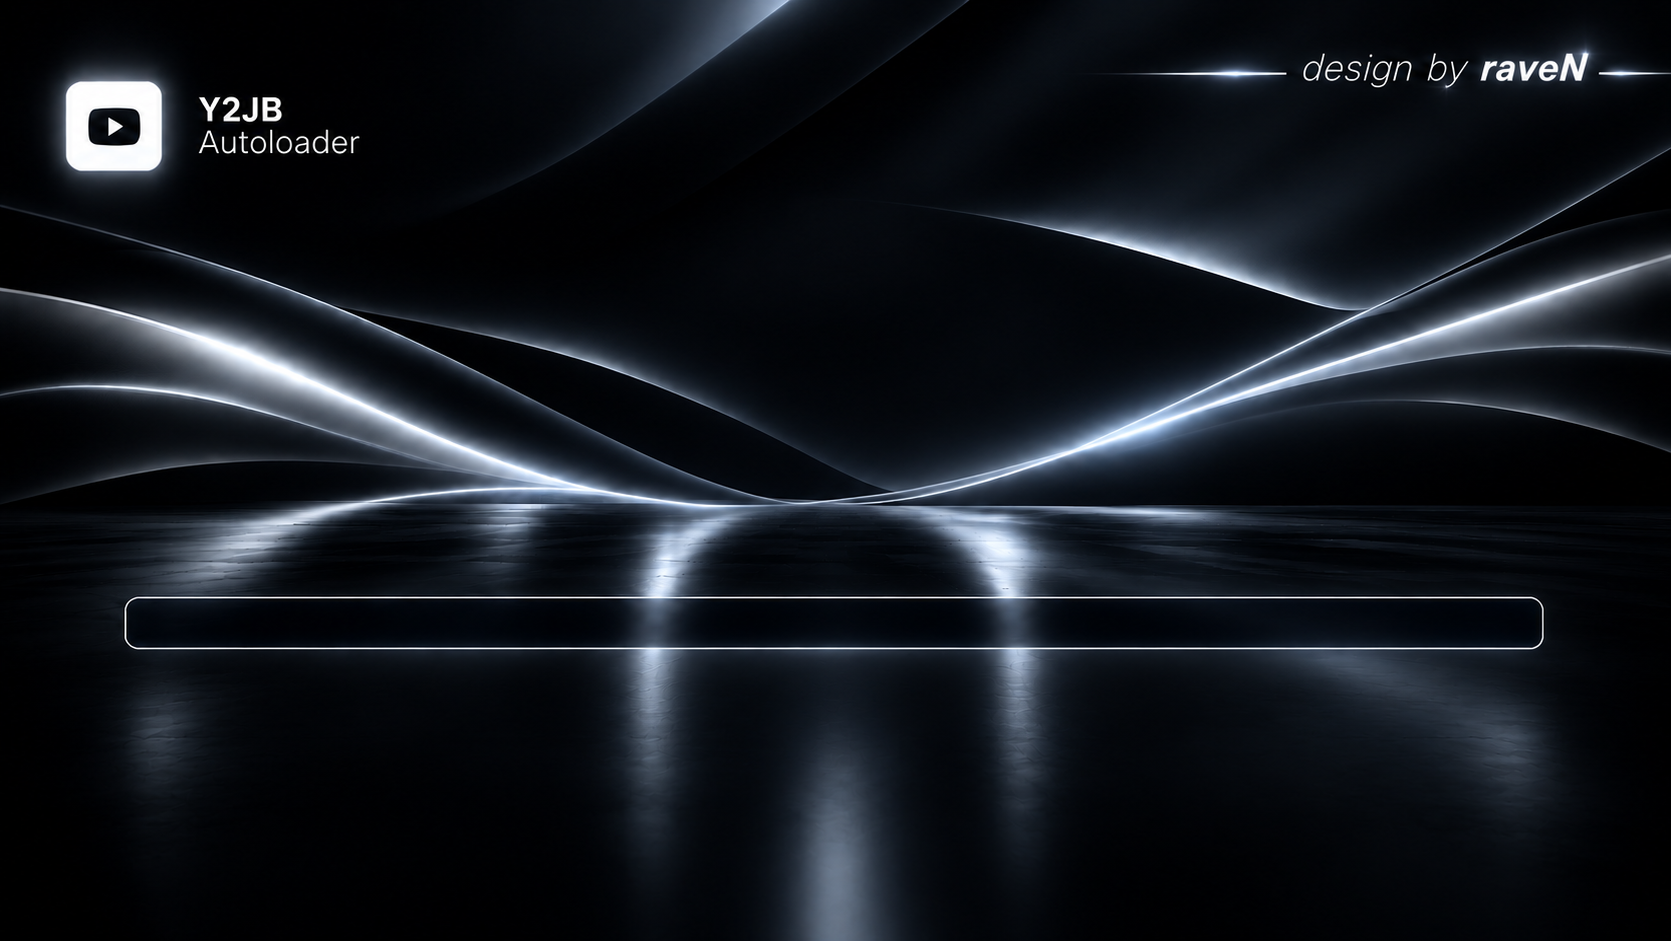
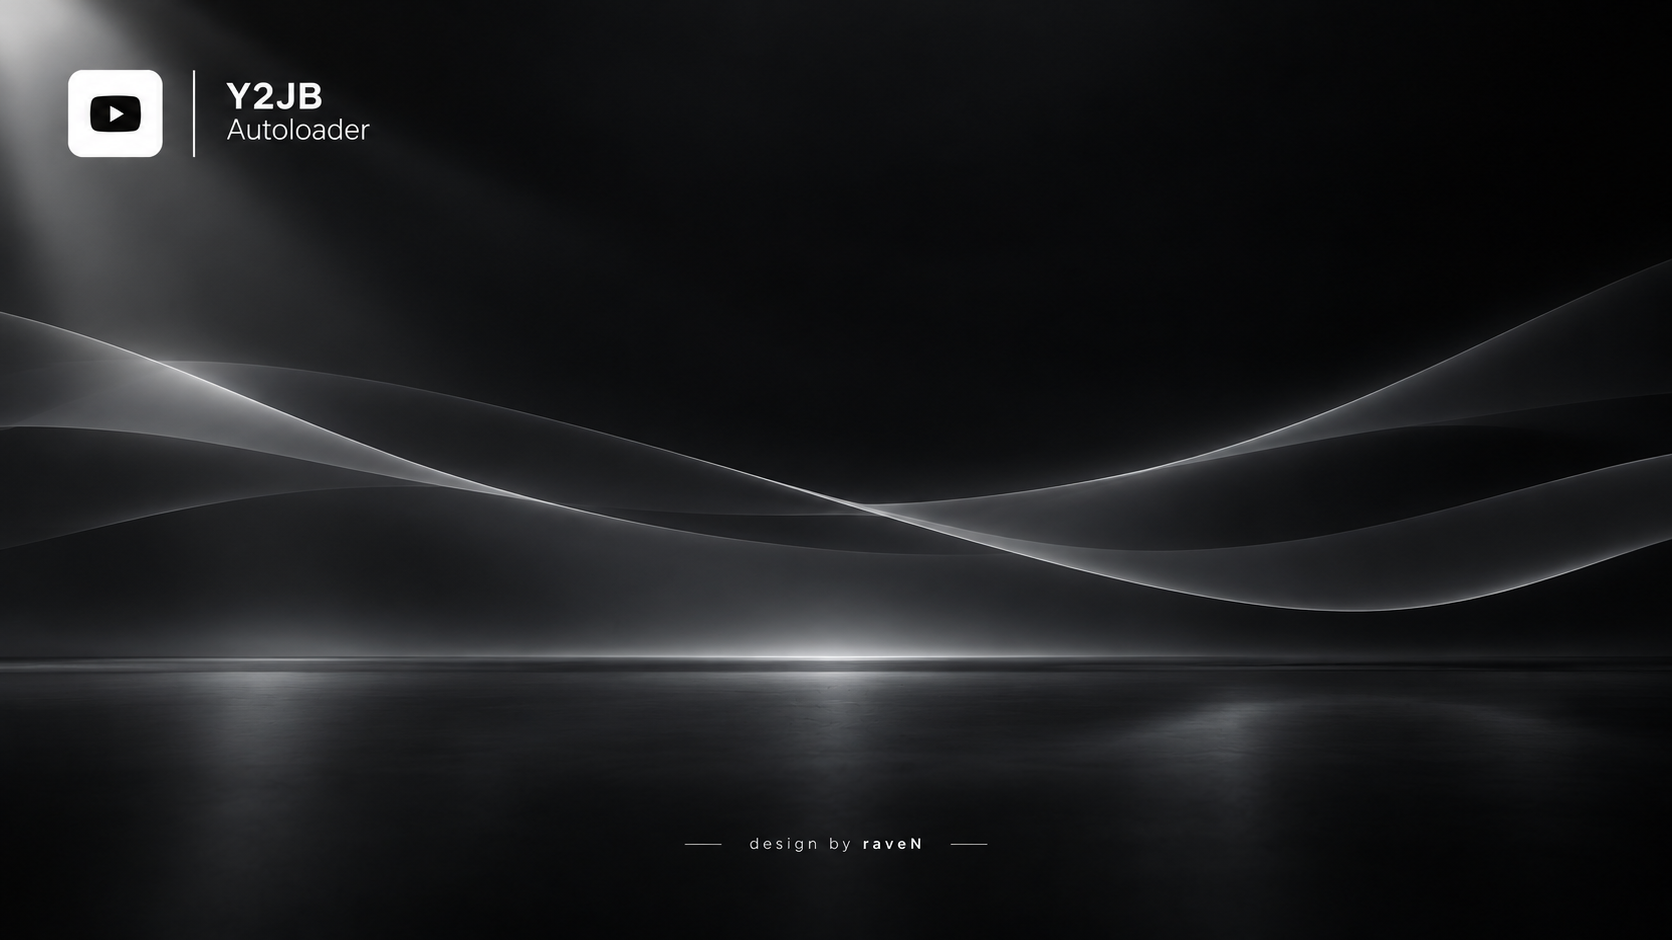
Redesign Y2JB circular progress UI

diff --git a/src/main.js b/src/main.js
@@ -172,10 +172,10 @@ function trigger() {
             width: "320px", height: "320px",
             boxSizing: "border-box", borderRadius: "50%",
             border: "12px solid transparent",
-            background: "conic-gradient(from 0deg, rgba(255,255,255,.06) 0deg, rgba(255,255,255,.12) 18deg, #fff 32deg, rgba(255,255,255,.95) 42deg, rgba(255,255,255,.12) 58deg, transparent 		72deg, transparent 88deg, rgba(255,255,255,.08) 100deg, rgba(255,255,255,.65) 116deg, #fff 128deg, rgba(255,255,255,.08) 143deg, transparent 158deg, transparent 178deg, 	rgba(255,255,255,.08) 190deg, rgba(255,255,255,.75) 207deg, #fff 218deg, rgba(255,255,255,.08) 234deg, transparent 250deg, transparent 268deg, rgba(255,255,255,.08) 280deg, 	rgba(255,255,255,.55) 296deg, #fff 307deg, rgba(255,255,255,.08) 324deg, transparent 340deg, transparent 360deg)",
+            background: "conic-gradient(from -90deg, #fff 0deg, #fff 0deg, rgba(255,255,255,.12) 0deg, rgba(255,255,255,.12) 360deg)",
             boxShadow: "0 0 22px rgba(255,255,255,.65), 0 0 55px rgba(255,255,255,.38), 0 0 100px rgba(255,255,255,.16)",
             filter: "drop-shadow(0 0 10px rgba(255,255,255,.75))",
-            animation: "jailbreakSpin 1.8s linear infinite",
+            animation: "jailbreakGlow 1.4s ease-in-out infinite",
             WebkitMask: "radial-gradient(closest-side, transparent calc(100% - 16px), #000 calc(100% - 15px))",
             mask: "radial-gradient(closest-side, transparent calc(100% - 16px), #000 calc(100% - 15px))",
         });
@@ -183,18 +183,9 @@ function trigger() {
 
         const animationStyle = document.createElement("style");
         animationStyle.textContent = `
-            @keyframes jailbreakSpin {
-                0% {
-                    transform: rotate(0deg);
-                    filter: drop-shadow(0 0 8px rgba(255,255,255,.65));
-                }
-                50% {
-                    filter: drop-shadow(0 0 20px rgba(255,255,255,1));
-                }
-                100% {
-                    transform: rotate(360deg);
-                    filter: drop-shadow(0 0 8px rgba(255,255,255,.65));
-                }
+            @keyframes jailbreakGlow {
+                0%, 100% { filter: drop-shadow(0 0 9px rgba(255,255,255,.55)); }
+                50% { filter: drop-shadow(0 0 22px rgba(255,255,255,.95)); }
             }
             @keyframes jailbreakInnerPulse {
                 0%, 100% {
@@ -231,84 +222,33 @@ function trigger() {
         });
         root.appendChild(centralStatus);
 
-        // A single live status line replaces the old scrolling log in the visible overlay.
-        const statusPanel = document.createElement("div");
-        statusPanel.id = "logWrapper";
-        Object.assign(statusPanel.style, {
-            position: "absolute", left: "7.6%", top: "66.3%", transform: "none",
-            width: "84.8%", height: "5.6%", boxSizing: "border-box", padding: "0 28px",
-            display: "flex", alignItems: "center",
-            background: "transparent",
-            border: "none", borderRadius: "0",
-            boxShadow: "none",
-            overflow: "hidden", zIndex: "3"
-        });
-        root.appendChild(statusPanel);
-        const dot = document.createElement("div");
-        Object.assign(dot.style, {
-            width: "9px", height: "9px", flex: "0 0 9px", marginRight: "18px",
-            borderRadius: "50%", background: "#dceaff", boxShadow: "0 0 14px rgba(180,210,255,.95)"
-        });
-        statusPanel.appendChild(dot);
-        const logContainer = document.createElement("div");
-        logContainer.id = "logContainer";
-        Object.assign(logContainer.style, {
-            flex: "1", minWidth: "0", whiteSpace: "nowrap", overflow: "hidden",
-            textOverflow: "ellipsis", color: "rgba(242,246,255,.92)", fontSize: "22px",
-            letterSpacing: ".2px"
-        });
-        statusPanel.appendChild(logContainer);
-
-        const progressBarContainer = document.createElement("div");
-        Object.assign(progressBarContainer.style, {
-            position: "absolute", left: "50%", top: "85%", transform: "translateX(-50%)",
-            width: "900px", height: "13px", background: "rgba(255,255,255,.12)",
-            border: "1px solid rgba(255,255,255,.28)", borderRadius: "99px", overflow: "hidden",
-            zIndex: "3", boxShadow: "0 0 18px rgba(110,160,255,.10)"
-        });
-        root.appendChild(progressBarContainer);
-        const progressBar = document.createElement("div");
-        progressBar.id = "progressBar";
-        Object.assign(progressBar.style, {
-            width: "100%", height: "100%",
-            background: "linear-gradient(90deg,#b8d5ff,#ffffff 65%,#dbe8ff)",
-            transformOrigin: "left", transform: "scaleX(0)", transition: "transform .45s ease",
-            borderRadius: "99px", boxShadow: "0 0 16px rgba(225,239,255,.9)"
-        });
-        progressBarContainer.appendChild(progressBar);
-        const progressLabel = document.createElement("div");
-        progressLabel.id = "progressLabel";
-        progressLabel.textContent = "Loading...";
-        Object.assign(progressLabel.style, {
-            position: "absolute", left: "50%", top: "88%", transform: "translateX(-50%)",
-            marginTop: "18px", fontSize: "15px", letterSpacing: "2px",
-            color: "rgba(220,231,250,.58)", zIndex: "3"
-        });
-        root.appendChild(progressLabel);
+        // Status and progress are displayed inside the central circular ring.
         document.body.appendChild(root);
     };
 
     window.updateProgress = function(percent, message="Loading...") {
-        const bar = document.getElementById("progressBar");
-        if (bar) {
-            const safePercent = Math.max(0, Math.min(100, Number(percent) || 0));
-            bar.style.transform = "scaleX(" + safePercent / 100 + ")";
+        const safePercent = Math.max(0, Math.min(100, Number(percent) || 0));
+        const ring = document.getElementById("jailbreakRing");
+        const status = document.getElementById("jailbreakStatus");
+
+        if (ring) {
+            const degrees = safePercent * 3.6;
+            ring.style.background =
+                "conic-gradient(from -90deg, #fff 0deg, #fff " + degrees +
+                "deg, rgba(255,255,255,.12) " + degrees +
+                "deg, rgba(255,255,255,.12) 360deg)";
         }
-        const label = document.getElementById("progressLabel");
-        if (label) label.textContent = String(message);
+        if (status) {
+            status.textContent = String(message);
+            status.style.fontSize = "21px";
+            status.style.letterSpacing = "1px";
+        }
         window.uiLog(message, "warning");
     };
 
     window.uiLog = function(message, type="info") {
         if (typeof message === "string" && (message.includes("[ERROR]") || message.includes("[-]"))) {
             if (typeof window.hideUI === "function") window.hideUI();
-        }
-        const logContainer = document.getElementById("logContainer");
-        if (logContainer) {
-            logContainer.textContent = String(message);
-            logContainer.style.color = type === "error" ? "#ffb8b8" :
-                type === "success" ? "#d8ffe3" :
-                type === "warning" ? "#f1f5ff" : "rgba(242,246,255,.92)";
         }
     };
 
@@ -1257,9 +1197,6 @@ function trigger() {
         // Success styling is applied only after the existing jailbreak checks and autoload.
         const successStatus = document.getElementById("jailbreakStatus");
         const successRing = document.getElementById("jailbreakRing");
-        const successLabel = document.getElementById("progressLabel");
-        const successLog = document.getElementById("logContainer");
-        const successDot = document.querySelector("#logWrapper > div");
 
         if (successStatus) {
             successStatus.textContent = "Jailbreak - Success";
@@ -1277,18 +1214,6 @@ function trigger() {
 
         if (successStatus) {
             successStatus.classList.remove("loading");
-        }
-        if (successLabel) {
-            successLabel.textContent = "100%";
-            successLabel.style.color = "#8dffb0";
-        }
-        if (successLog) {
-            successLog.textContent = "Process complete";
-            successLog.style.color = "#8dffb0";
-        }
-        if (successDot) {
-            successDot.style.background = "#8dffb0";
-            successDot.style.boxShadow = "0 0 14px rgba(80,255,140,.95)";
         }
 
     } catch (e) {                
